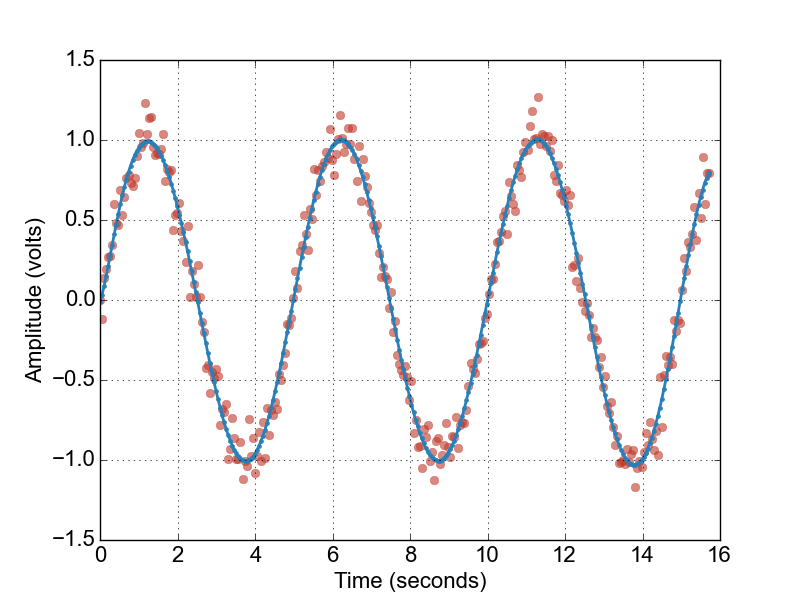
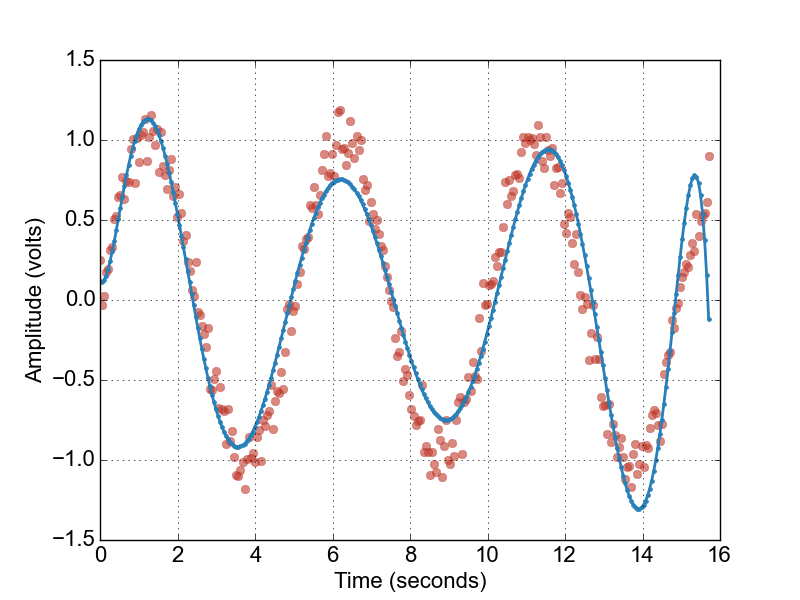
Reworked the basis generation so only nonzero parts of regularization problem are introduced.

Changed region(s): [[0.375, 0.15, 0.9062, 0.87], [0.125, 0.15, 0.375, 0.84]]

diff --git a/mathtools/legendre.py b/mathtools/legendre.py
@@ -174,19 +174,17 @@ def create_legendre_basis(x, nb_bases, reg_coefs=[0,0,0], x_ref=None):
                 - nb_bases: The number of basis vectors.
                 - reg_coefs: A list of regularization coefficients.
                 - x: The domain over which the basis will be defined.
-                - valid_idx: indices of the domain that are valid -- that
-                             is, those values inside the reference domain,
-                             if specified. If not specified, the entire
-                             vector is valid.
+                - valid_idx: indices of the domain that are valid -- that is,
+                  those values inside the reference domain, if specified. If
+                  not specified, the entire vector is valid.
                 - B: Legendre basis vectors (as columns).
                 - I: Identity matrix (times reg_coefs[0]).
-                - dB: Derivative of basis vectors in B (times reg_coefs[1]).
-                - d2B: Second derivative of basis vectors in B (times 
-                       reg_coefs[2]).
+                - dB: Derivative of basis vectors in B 
+                - d2B: Second derivative of basis vectors in B 
                 - B_: The 'brick', a concatenation of B, I, dB, and d2B.
                 - inverse: The pseudo-inverse of the brick, B_.
-                - condition_number: The condition number associated with the 
-                                    brick inverse.
+                - condition_number: The condition number associated with the
+                  brick inverse.
     '''
     # Build a structure to hold the data.
     basis           = Struct()
@@ -203,7 +201,7 @@ def create_legendre_basis(x, nb_bases, reg_coefs=[0,0,0], x_ref=None):
     # Is there a reference domain? 
     if (x_ref is not None):
         x_ref_map, shift, scale = map_to_interval(x_ref, [-1,1], \
-                                                  return_all=True)
+                return_all=True)
 
         # Map current domain using reference domain scale and shift.
         x_ = scale * (x - shift)
@@ -216,18 +214,24 @@ def create_legendre_basis(x, nb_bases, reg_coefs=[0,0,0], x_ref=None):
     basis.dB     = d_legendre_basis(x_, nb_bases)
     basis.d2B    = d2_legendre_basis(x_, nb_bases)
 
-    # Create the 'brick' by stacking these bases on top of one another.
-    basis.B_     = np.r_[basis.B, 
-                         reg_coefs[0]*basis.I, 
-                         reg_coefs[1]*basis.dB, 
-                         reg_coefs[2]*basis.d2B] 
+    # Create the 'brick' by stacking these bases on top of one another. Only
+    # include those components that have nonzero regularization coefficients.
+    # This can substantially speed up the SVD computation.
+    basis.B_ = basis.B
+    if reg_coefs[0] > 0:
+        basis.B_ = np.r_[basis.B_, reg_coefs[0] * basis.I]
+    if reg_coefs[1] > 0:
+        basis.B_ = np.r_[basis.B_, reg_coefs[1] * basis.dB]
+    if reg_coefs[2] > 0:
+        basis.B_ = np.r_[basis.B_, reg_coefs[2] * basis.d2B]
 
     # Find the inverse of the brick. Keep the condition number around, too.
     basis.inverse, basis.condition_number = pseudoinverse(basis.B_, True)
 
     # Define the data augmention function.
     def augment(y):
-        return np.r_[y, np.zeros(nb_bases), np.zeros(2*len(x))]
+        nb_zeros = basis.B_.shape[0] - len(y)
+        return np.r_[y, np.zeros(nb_zeros)]
 
     # Attach augment function to the basis object.
     basis.augment = augment

diff --git a/tests/basis_tests.py b/tests/basis_tests.py
@@ -85,7 +85,7 @@ def create_legendre_shape_test():
 def create_legendre_shape_test():
     x = np.linspace(0,5,100)
     nb_bases = 25
-    basis = create_legendre_basis(x, nb_bases)
+    basis = create_legendre_basis(x, nb_bases, reg_coefs=[1e-3, 1e-3, 1e-3])
     assert_equals(basis.inverse.shape, (25, 325))
 
 
@@ -100,7 +100,8 @@ def x_ref_test():
     x = np.linspace(0,5,100)
     x_ref = np.linspace(1,4,100)
     nb_bases = 25
-    basis = create_legendre_basis(x, nb_bases, x_ref=x_ref)
+    basis = create_legendre_basis(x, nb_bases, x_ref=x_ref, \
+            reg_coefs=[1e-3, 1e-3, 1e-3])
     assert_equals(len(basis.valid_idx), 60)
     assert_equals(basis.B_.shape, (205, 25))
 
@@ -108,10 +109,58 @@ def x_ref_test():
 def augment_test():
     x = np.linspace(0,5,100)
     nb_bases = 25
-    basis = create_legendre_basis(x, nb_bases)
+    basis = create_legendre_basis(x, nb_bases, reg_coefs=[1e-3, 1e-3, 1e-3])
 
     y = np.random.rand(100)
     y_aug = basis.augment(y)
 
     assert_equals(y_aug.shape, (325,))
     assert_array_almost_equal_nulp(y_aug, np.r_[y, np.zeros(225)])
+
+
+def brick_size_test_01():
+    x = np.linspace(0,5,100)
+    nb_bases = 25
+    basis = create_legendre_basis(x, nb_bases, reg_coefs=[1e-3, 0, 0])
+
+    y = np.random.rand(100)
+    y_aug = basis.augment(y)
+
+    assert_equals(basis.B_.shape, (100+25, 25))
+    assert_equals(y_aug.shape, (100+25,))
+
+
+def brick_size_test_02():
+    x = np.linspace(0,5,100)
+    nb_bases = 25
+    basis = create_legendre_basis(x, nb_bases, reg_coefs=[0, 1, 0])
+
+    y = np.random.rand(100)
+    y_aug = basis.augment(y)
+
+    assert_equals(basis.B_.shape, (100+100, 25))
+    assert_equals(y_aug.shape, (100+100,))
+
+
+def brick_size_test_03():
+    x = np.linspace(0,5,100)
+    nb_bases = 25
+    basis = create_legendre_basis(x, nb_bases, reg_coefs=[0, 0, 1])
+
+    y = np.random.rand(100)
+    y_aug = basis.augment(y)
+
+    assert_equals(basis.B_.shape, (100+100, 25))
+    assert_equals(y_aug.shape, (100+100,))
+
+
+def brick_size_test_04():
+    x = np.linspace(0,5,100)
+    nb_bases = 25
+    basis = create_legendre_basis(x, nb_bases, reg_coefs=[1, 1, 1])
+
+    y = np.random.rand(100)
+    y_aug = basis.augment(y)
+
+    assert_equals(basis.B_.shape, (100+225, 25))
+    assert_equals(y_aug.shape, (100+225,))

diff --git a/scripts/fit_examples.py b/scripts/fit_examples.py
@@ -13,7 +13,8 @@ if __name__ == '__main__':
     t_new = np.linspace(-pi, 6*np.pi, 400)
     noise_amplitude = 0.1
     y = np.sin(2*np.pi/5*t) + noise_amplitude * np.random.randn(len(t))
-    f = Fit(t, 15, reg_coefs=[0,1e-3,0e-2])
+    reg_coefs = [0, 0, 0]
+    f = Fit(t, 15, reg_coefs=reg_coefs)
 
     # Perform the fit to the data.
     fit = f.fit(y)

diff --git a/README.md b/README.md
@@ -371,7 +371,12 @@ data on the specified domain.
 > with the basis. The basis object contains the following properties:
 >
 >   - **```B — array_like```**: An ```nb_samples x nb_bases``` array of
-> Legendre polynomial basis (column) vectors.
+>     Legendre polynomial basis (column) vectors.
 >
 >   - **```dB — array_like```**: Derivative of basis vectors in B.
 >     ```nb_samples x nb_bases``` in size.
+>
+>   - **```augment(y) — function```**: This function takes as input a data
+>     vector, ```y```, and returns an augmented vector ```y_```. The vector is
+>     padded with zeros of an appropriate number so that the regularization 
+>     is properly implemented as a least squares problem.
